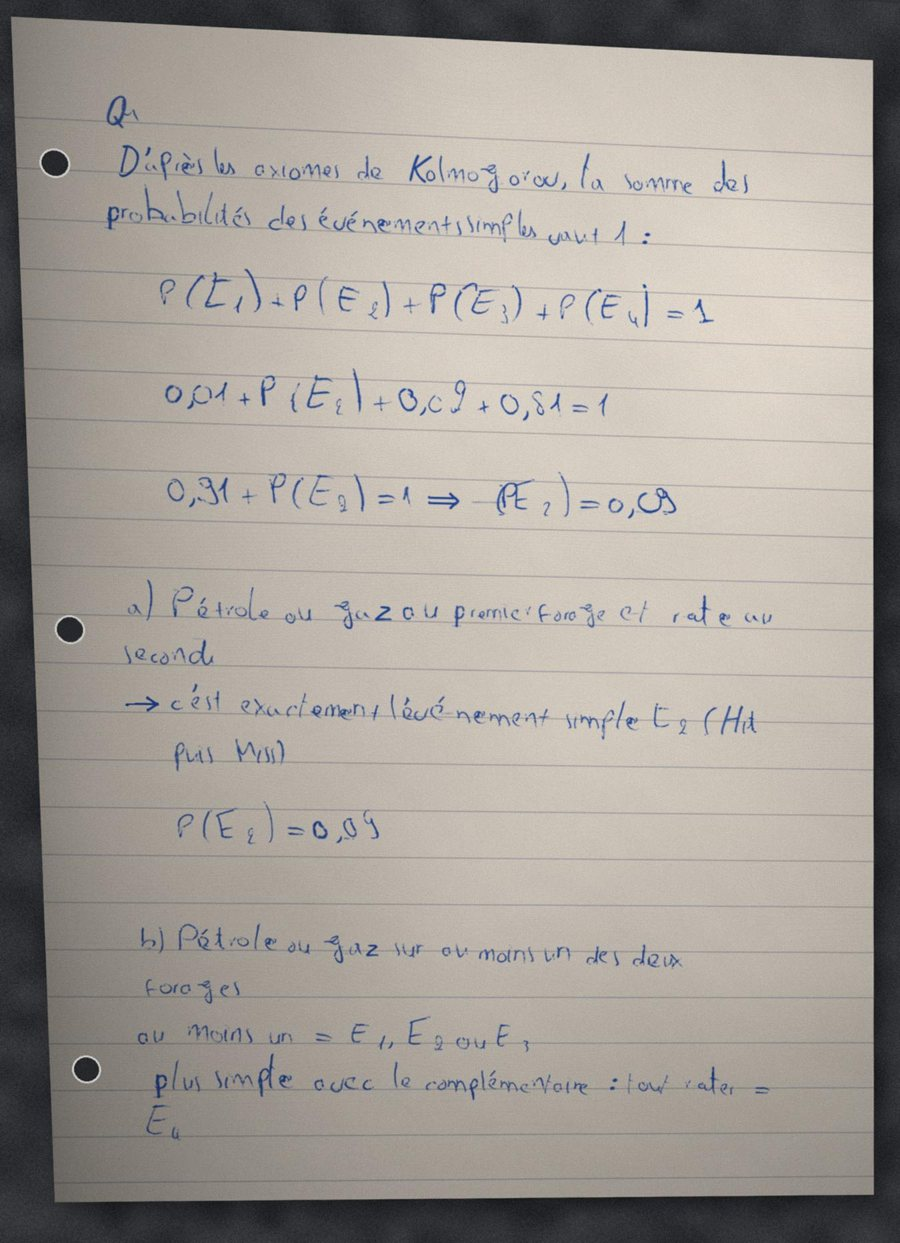
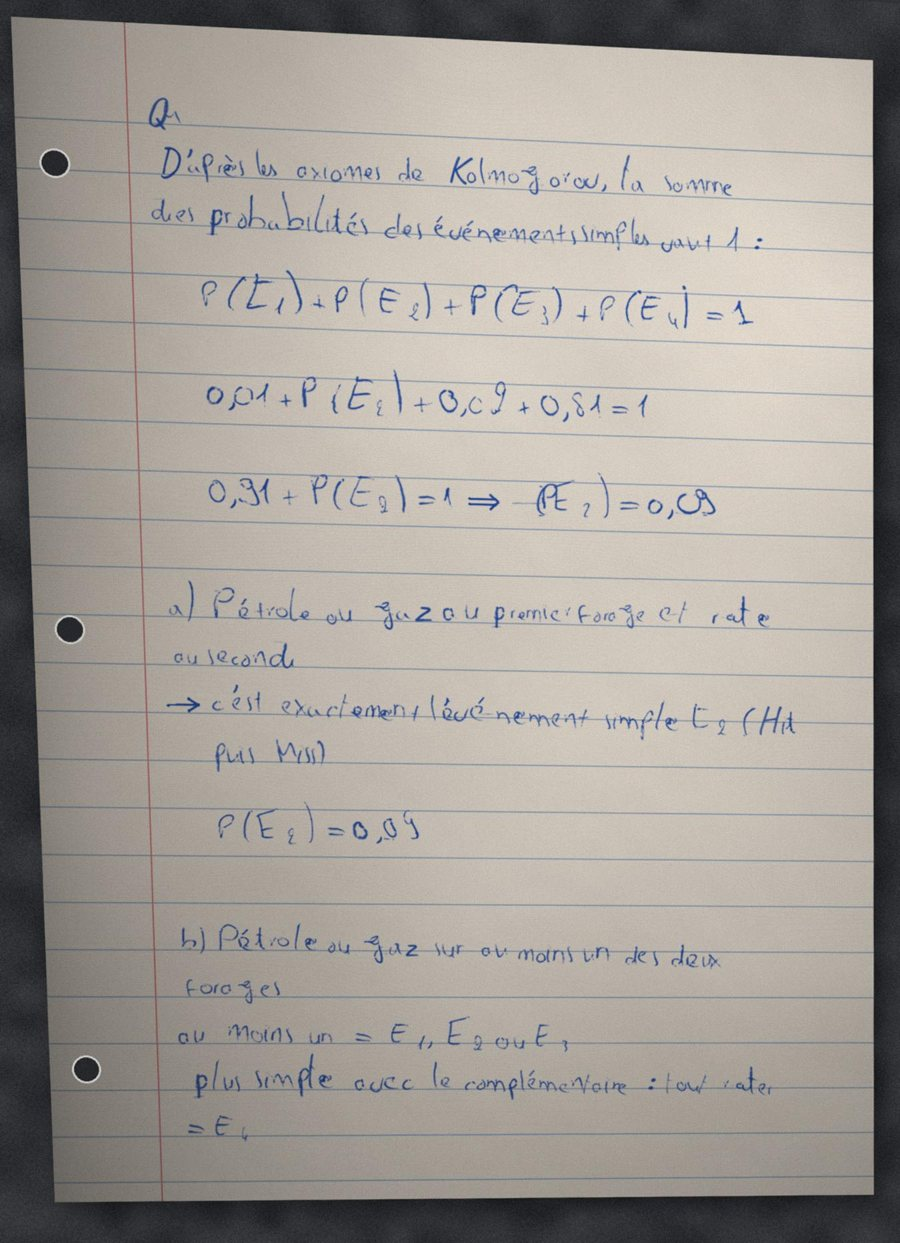
Lined paper: blue lines and a red margin like a real notebook

diff --git a/scripts/handnotes.py b/scripts/handnotes.py
@@ -444,14 +444,13 @@ def make_paper(kind, size, line_h, first_base, margin_x, mm, rng):
         mx = margin_x - 0.5 * step
         d.line([(mx, 0), (mx, H)], fill=(222, 120, 128), width=2)
     elif kind in ("lines", "college"):
-        col = (170, 196, 232) if kind == "college" else (205, 211, 222)
+        col = (170, 196, 232)  # notebook blue
         y = first_base
         while y < H - line_h * 0.3:
             d.line([(0, y), (W, y)], fill=col, width=2)
             y += line_h
-        if kind == "college":
-            mx = margin_x - 0.45 * line_h
-            d.line([(mx, 0), (mx, H)], fill=(232, 140, 150), width=2)
+        mx = margin_x - 0.45 * line_h  # red margin line, like a real lined notebook
+        d.line([(mx, 0), (mx, H)], fill=(232, 140, 150), width=2)
     elif kind == "seyes":
         big, small = line_h, line_h / 4
         heavy, light, vert = (150, 140, 205), (205, 200, 236), (205, 200, 236)
@@ -961,7 +960,7 @@ class Renderer:
         if paper == "squared":
             self.line_h = 8.5 * self.mm * SIZES[size] ** 0.5
             self.xh = 0.42 * self.line_h * SIZES[size] ** 0.5
-        self.margin_x = (32 if paper in ("seyes", "college", "squared") else 22) * self.mm
+        self.margin_x = (32 if paper in ("seyes", "college", "squared", "lines") else 22) * self.mm
         self.right = self.W - 16 * self.mm
         self.first_base = (30 if paper in ("seyes", "college", "squared") else 24) * self.mm
         if paper == "seyes":
